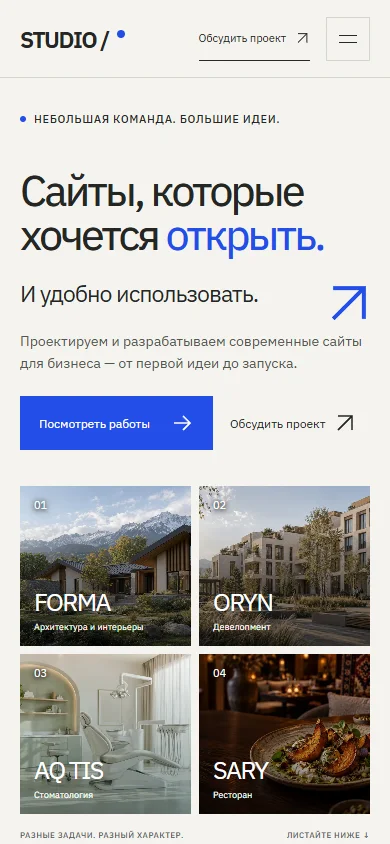
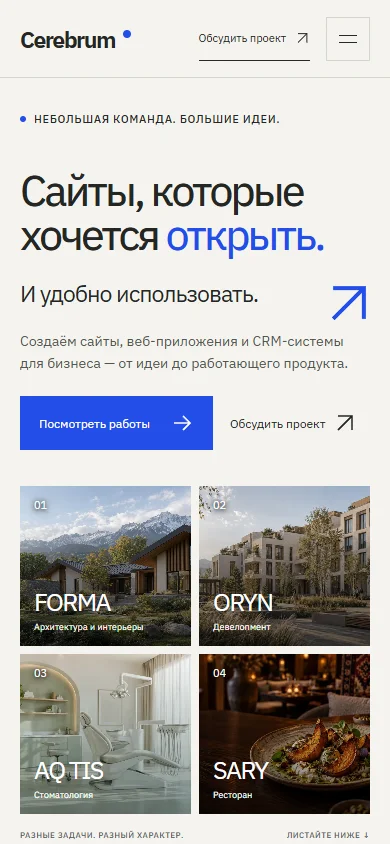
Configure Cerebrum team, services and public contacts

Changed region(s): [[0.0615, 0.4005, 0.9231, 0.4621], [0.0308, 0.0308, 0.3385, 0.0616]]

diff --git a/src/portfolio/config.ts b/src/portfolio/config.ts
@@ -1,21 +1,42 @@
-/** Replace these placeholders before using the portfolio in sales. */
+/** Public studio information supplied by the Cerebrum team. */
 export const studio = {
-  name: "STUDIO /",
-  nameIsPlaceholder: true,
+  name: "Cerebrum",
+  nameIsPlaceholder: false,
   locale: "ru" as const,
   description:
-    "Небольшая web/digital-студия. Проектируем и разрабатываем современные сайты для бизнеса — от идеи до запуска.",
-  contact: { whatsapp: "", telegram: "", email: "", phone: "", instagram: "" },
+    "Разрабатываем сайты, веб-приложения и CRM-системы для бизнеса. Помогаем автоматизировать рабочие процессы, упрощать управление и превращать идеи в работающие продукты.",
+  contact: {
+    whatsapp: "+7 708 491 73 54",
+    telegram: "@xcheney",
+    email: "hempelkazakhstan@gmail.com",
+    phone: "",
+    instagram: "",
+  },
   team: [
     {
-      name: "[Имя 1]",
-      role: "[Роль]",
-      description: "[Несколько слов о себе и своей работе]",
+      name: "Ибрахим Абдибек",
+      initials: "ИА",
+      role: "Основатель Cerebrum",
+      description:
+        "Участник хакатона, работал над разработкой и внедрением CRM-систем для бизнеса и организаций. Отвечает за развитие студии, общение с заказчиками и организацию работы команды — от обсуждения задачи до запуска продукта. Участвует в разработке и помогает переводить потребности клиента в конкретные технические решения.",
+      skills: [] as string[],
     },
     {
-      name: "[Имя 2]",
-      role: "[Роль]",
-      description: "[Несколько слов о себе и своей работе]",
+      name: "Бекзат Муратбай",
+      initials: "БМ",
+      role: "Главный разработчик · Специалист по кибербезопасности",
+      description:
+        "Участник хакатонов, занимается разработкой и безопасностью программных решений. Отвечает за техническую архитектуру проектов, реализацию основного функционала и качество кода. Уделяет особое внимание защите данных и надёжности создаваемых систем.",
+      skills: [
+        "Python",
+        "C++",
+        "Django",
+        "FastAPI",
+        "TypeScript",
+        "React",
+        "Docker",
+        "Kubernetes",
+      ],
     },
   ],
 };
@@ -37,9 +58,9 @@ export const services = [
     text: "Собираем историю продукта в посадочную страницу с ясным предложением и логичным действием.",
   },
   {
-    title: "Бизнесу есть что рассказать.",
-    tag: "BUSINESS WEBSITES",
-    text: "Помогаем представить компанию, услуги и проекты так, чтобы клиенту было проще выбрать.",
+    title: "Меньше рутины. Больше контроля.",
+    tag: "WEB APPS / CRM",
+    text: "Разрабатываем веб-приложения и CRM-системы под процессы бизнеса: автоматизируем повседневные задачи и упрощаем управление.",
   },
   {
     title: "Новый взгляд на знакомое.",

diff --git a/src/portfolio/styles/portfolio.css b/src/portfolio/styles/portfolio.css
@@ -735,8 +735,8 @@ sup {
 .team-grid {
   display: grid;
   grid-template-columns: 1fr 1fr;
-  gap: 40px;
-  max-width: 650px;
+  gap: clamp(40px, 7vw, 100px);
+  max-width: 1100px;
   margin-top: 70px;
 }
 .team-avatar {
@@ -751,14 +751,37 @@ sup {
   letter-spacing: -3px;
 }
 .team-grid h3 {
-  font-size: 22px;
+  font-size: 26px;
   margin-top: 20px;
   margin-bottom: 8px;
 }
 .team-grid p {
-  font-size: 12px;
+  font-size: 14px;
+  line-height: 1.7;
   margin-top: 12px;
   color: #c5cec0;
+}
+.team-grid article > .eyebrow {
+  display: block;
+  line-height: 1.7;
+}
+.team-skills {
+  margin-top: 24px;
+}
+.team-skills ul {
+  display: flex;
+  flex-wrap: wrap;
+  gap: 8px;
+  list-style: none;
+  padding: 0;
+  margin: 12px 0 0;
+}
+.team-skills li {
+  border: 1px solid #677260;
+  border-radius: 30px;
+  padding: 7px 12px;
+  font-size: 12px;
+  color: #e0e5dc;
 }
 .placeholder-note {
   font-size: 11px;
@@ -813,9 +836,26 @@ sup {
   align-items: center;
   justify-content: space-between;
   gap: 12px;
-  min-height: 44px;
+  min-height: 70px;
   font-size: 16px;
   border-bottom: 1px solid #7891f0;
+}
+.contact-channels > a[href^="mailto:"] {
+  grid-column: 1 / -1;
+}
+.contact-channel-name {
+  min-width: 0;
+  padding-block: 10px;
+}
+.contact-channel-name small {
+  display: block;
+  margin-top: 5px;
+  color: #e0e7ff;
+  font-size: 12px;
+  overflow-wrap: anywhere;
+}
+.contact-channels > a > svg {
+  flex-shrink: 0;
 }
 .pending-channel small {
   font-size: 10px;
@@ -1125,14 +1165,18 @@ sup {
     padding: 11px 14px;
   }
   .team-grid {
-    gap: 25px;
+    grid-template-columns: 1fr;
+    gap: 36px;
     margin-top: 40px;
   }
   .team-avatar {
     height: 80px;
   }
   .team-grid h3 {
-    font-size: 20px;
+    font-size: 24px;
+  }
+  .team-grid p {
+    font-size: 13px;
   }
   .contact-section {
     padding-top: 38px;

diff --git a/docs/PORTFOLIO-QA.md b/docs/PORTFOLIO-QA.md
@@ -4,7 +4,7 @@
 
 - `npm run check`: 0 errors, 0 warnings, 0 hints.
 - `npm run build`: 41 static HTML pages, plus the portfolio sitemap. FORMA retains its original 33 routes.
-- `npm test`: **65 passed**, 23.6 seconds, production preview under `/SketchMap/`, installed Microsoft Edge on Windows, Node 26.5.0.
+- `npm test`: **65 passed**, 23.9 seconds, production preview under `/SketchMap/`, installed Microsoft Edge on Windows, Node 26.5.0.
 - `git diff --check`: clean.
 
 The browser suite covers all 8 new pages at 360, 390, 768, 1024, 1280 and 1440 px; image decoding, runtime/console errors, HTTP errors, direct route loading and refresh, and horizontal overflow. All new pages passed the automated axe WCAG A/AA checks. Catalog/menu filters, service/FAQ disclosures, mobile navigation and Escape focus recovery were exercised. All three demo forms were checked for required fields, past-date rejection where applicable, explicit unsent status and absence of outgoing submissions. Reduced motion, a normal-motion scroll pass and usable static content without JavaScript were checked; form fields remain disabled without JavaScript. Every internal HTML link, asset and fragment across all 41 pages resolves. FORMA home locales and project navigation were also checked.
@@ -15,12 +15,14 @@ During QA, insufficient contrast in secondary captions was corrected. Headless E
 
 Reviewed the portfolio hero on desktop and mobile, the full homepage composition, the work and contact sections, all three demo heroes on desktop and mobile, and FORMA's actual preview. Images have explicit dimensions; the new pages contain no video. New JavaScript consists of a shared approximately 2.1 KB module and a roughly 1.0 KB demo form module before compression. Existing FORMA animation bundles are separate and unchanged.
 
-Committed previews: [`previews/portfolio-desktop.webp`](previews/portfolio-desktop.webp) and [`previews/portfolio-mobile.webp`](previews/portfolio-mobile.webp). Full-height review images remain locally under ignored `review/portfolio/`.
+Committed previews: [`previews/portfolio-desktop.webp`](previews/portfolio-desktop.webp), [`previews/portfolio-mobile.webp`](previews/portfolio-mobile.webp), and [`previews/team-desktop.webp`](previews/team-desktop.webp). The Cerebrum team and contact sections were visually reviewed at desktop and mobile sizes. All three supplied contact URLs were verified in the production HTML. Full-height review images remain locally under ignored `review/portfolio/`.
 
 ## Scope and remaining setup
 
 No original FORMA source or media, Astro base/site setting, or existing deploy workflow was changed. New pages were verified in a local production preview; GitHub Pages publication requires merging the PR, then checking the live deploy. The separate PR workflow repeats checks in Chromium on Ubuntu.
 
-No Safari/Firefox/device-hardware run, external Lighthouse score, real-user performance metric or full manual accessibility certification is claimed. Studio name, people and contact details remain explicit placeholders in `src/portfolio/config.ts`; they must be filled before sales use. Clinical content, reviews and results are placeholders. Demo forms are not live integrations.
+No Safari/Firefox/device-hardware run, external Lighthouse score, real-user performance metric or full manual accessibility certification is claimed. The user-supplied Cerebrum name, team, stack and three public contact channels are now configured. Clinical content, reviews and results remain placeholders. Demo forms are not live integrations.
+
+The initial PR also passed the full check/build/browser workflow on Chromium / Ubuntu in GitHub Actions. A subsequent content update replaces studio placeholders with the supplied Cerebrum information and updates the screenshots; it goes through the same workflow.
 
 Higgsfield had 0 credits; no generation job was submitted. Four generated ImageGen assets and their exact prompts are documented in `public/portfolio/MEDIA-CREDITS.md`.

diff --git a/docs/PORTFOLIO.md b/docs/PORTFOLIO.md
@@ -24,7 +24,7 @@ The portfolio adds 8 HTML pages to the existing 33 FORMA pages. Demo pages have 
 
 ## Editable content
 
-- `src/portfolio/config.ts`: studio name, empty contact channels, team placeholders, services, process and demo contacts. `STUDIO /` is a working name, not a claimed real identity. WhatsApp accepts an international number, Telegram accepts a handle without the URL, email and phone accept their usual values. Empty channels render as clearly unavailable, without fake links.
+- `src/portfolio/config.ts`: the user-supplied Cerebrum name, company description, biographies of Ибрахим Абдибек and Бекзат Муратбай, Bekzat's stack, and real public WhatsApp/Telegram/email contacts. WhatsApp accepts an international number, Telegram accepts a handle without the URL, email and phone accept their usual values. Unprovided channels are omitted when real channels exist. Demo-company contacts remain intentionally empty and separate.
 - `src/portfolio/projects.ts`: typed project records, status, narrative, features, stack, cover and live URL. Add a record to generate its case study and update catalog counts automatically. Add matching desktop/mobile captures and a live route for the new project. The hero reel is a curated selection of the first four projects.
 - `src/portfolio/components/`: shared header, showcase, contact, form and location components.
 - `src/portfolio/layouts/`: independent portfolio and demo document shells.
@@ -35,7 +35,7 @@ The portfolio content is separate from FORMA's existing RU/KK/EN system. Its ini
 
 ## Honest demos
 
-FORMA is an implemented website for a fictional architecture studio, confirmed by the owner during this task. ORYN, AQ TIS and SARY are explicitly labeled concepts. No commercial outcomes, client testimonials, credentials, team biographies or contact details were invented.
+FORMA is an implemented website for a fictional architecture studio, confirmed by the owner during this task. ORYN, AQ TIS and SARY are explicitly labeled concepts. No commercial outcomes, client testimonials, credentials, team biographies or contact details were invented. Cerebrum's biographies and contact information were supplied directly by the user.
 
 The clinic leaves doctors, before/after material, reviews and prices as explicit placeholders. Restaurant dishes and prices are labeled demonstration content. ORYN's numbers count elements of the concept, not business achievements. No real maps, addresses or registered trademarks are fabricated.
 
@@ -53,7 +53,7 @@ To recapture real previews, run `npm run dev`, then `npm run screenshots`. This 
 
 ## Review and publication
 
-1. Fill in the real studio name, contact channels and team in `config.ts` before using the link in sales.
+1. Review the user-supplied Cerebrum name, biographies, stack and public contact channels in `config.ts`. Optional phone/Instagram fields can be filled later; they are currently omitted.
 2. Run `npm ci`, `npm run check`, `npm run build`, and `npm test`. Tests start a production preview at port 4322 with the real GitHub Pages base.
 3. Local tests use installed Edge. On Linux/macOS set `PLAYWRIGHT_CHANNEL=chromium` after `npx playwright install chromium`, or use the CI configuration.
 4. Review the homepage, all cases and demos on desktop and mobile. No fake send-success state should appear.
